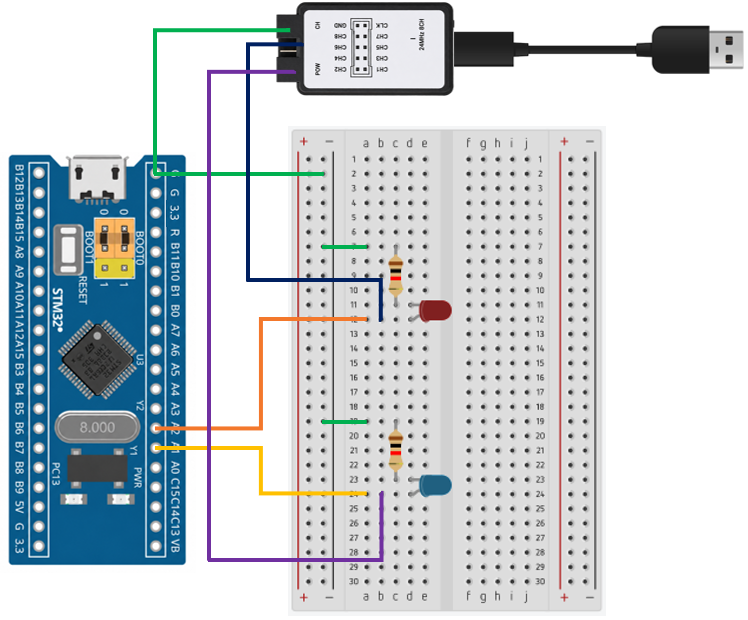
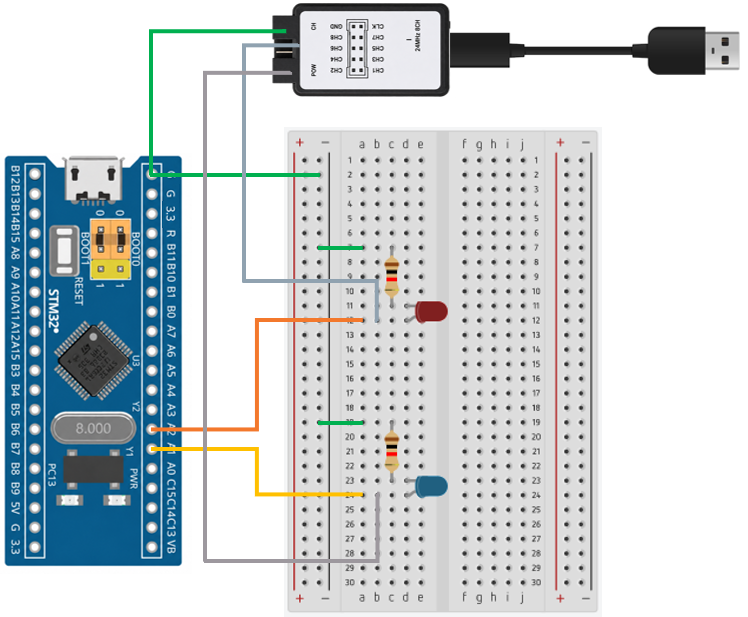
fix bug

Changed region(s): [[0.0, 0.0, 0.861, 1.0], [0.861, 0.0308, 1.0, 0.1232]]

diff --git a/03_DelayTime/Core/Src/main.c b/03_DelayTime/Core/Src/main.c
@@ -54,9 +54,7 @@
 /* USER CODE BEGIN PV */
 TaskHandle_t task1_handle = NULL;
 TaskHandle_t task2_handle = NULL;
-TaskHandle_t task3_handle = NULL;
 TaskHandle_t start_task_handler = NULL;
-char TaskListBuffer[1024];
 /* USER CODE END PV */
 
 /* Private function prototypes -----------------------------------------------*/
@@ -66,7 +64,6 @@ void FreeRTOS_Start(void);
 void Start_Task(void *pvParameters);
 void Task1(void *argument);
 void Task2(void *argument);
-void Task3(void *argument);
 /* USER CODE END PFP */
 
 /* Private user code ---------------------------------------------------------*/
